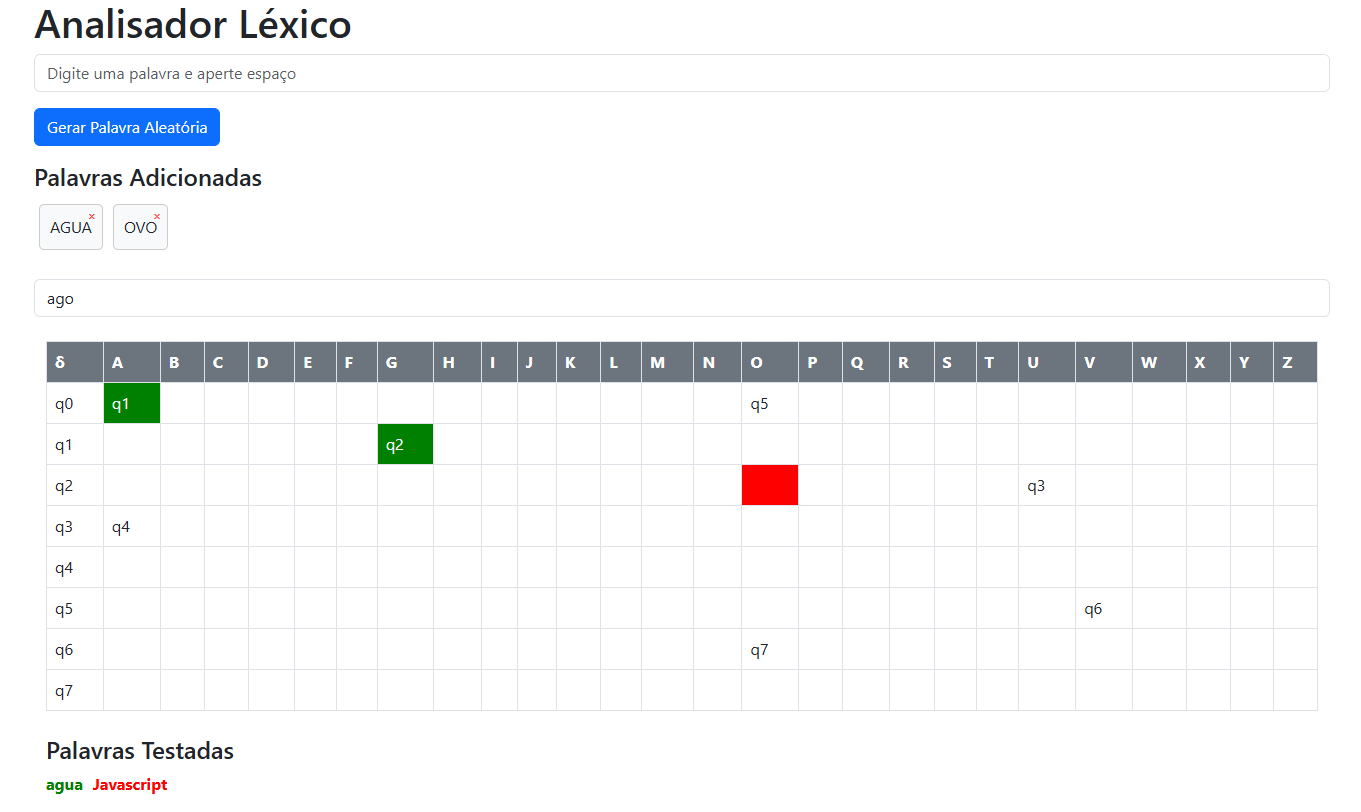
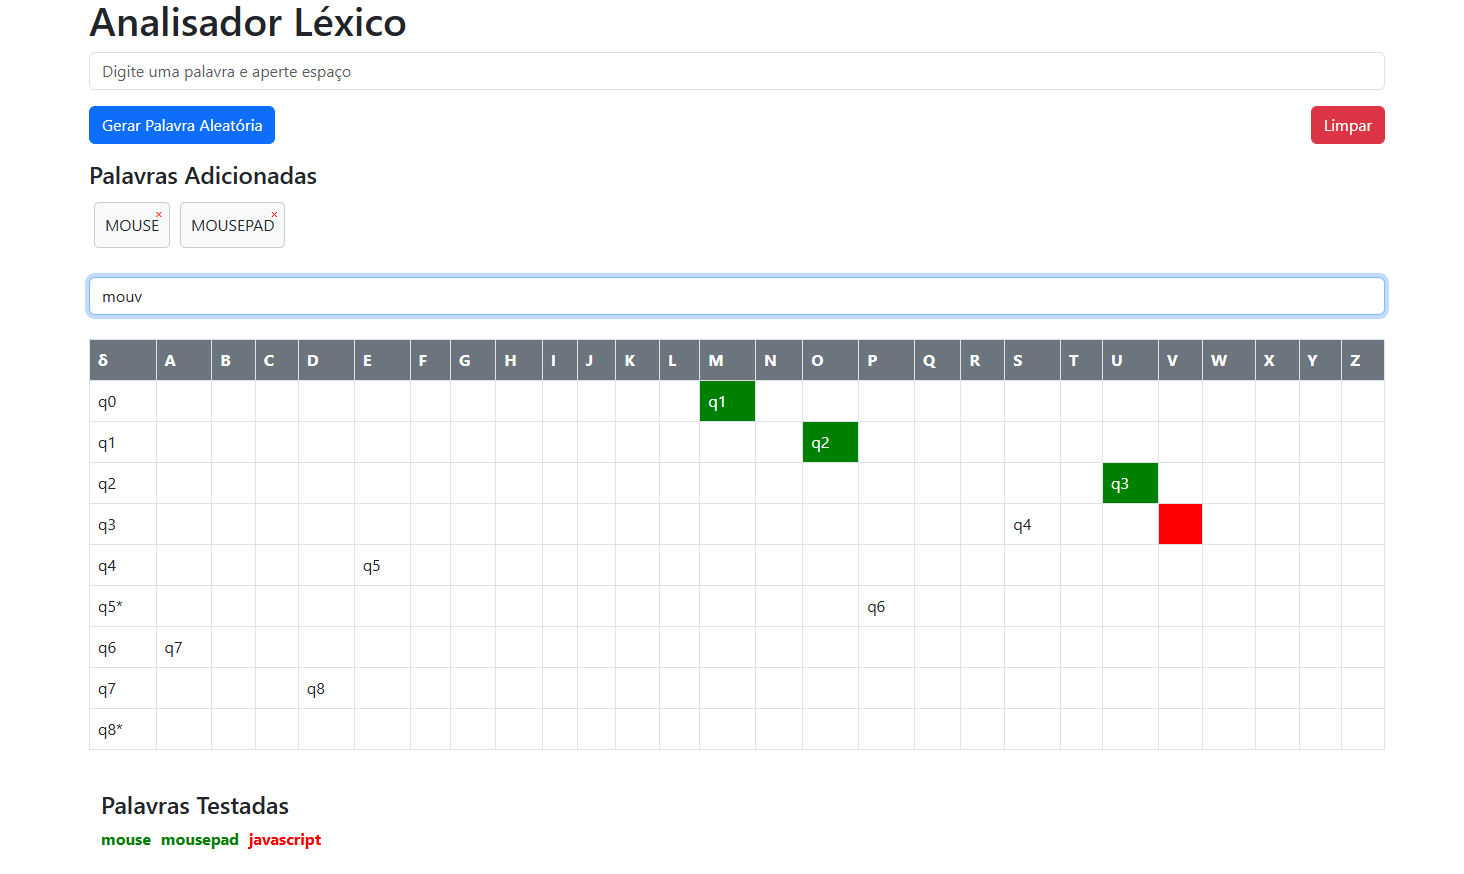
ajuste no readme

diff --git a/README.md b/README.md
@@ -40,60 +40,33 @@ O **Analisador Léxico** permite a validação de palavras em um alfabeto defini
 Observe que os estados q4, q7, q10 e q19 são estados finais.
 {
     "q0": {
-        "q1": "A",
-        "q11": "B"
+        "q1": "M"
     },
     "q1": {
-        "q2": "G"
+        "q2": "O"
     },
     "q2": {
-        "q3": "U",
-        "q8": "O"
+        "q3": "U"
     },
     "q3": {
-        "q4": "A",
-        "q5": "L"
+        "q4": "S"
     },
-    "q4": {},
+    "q4": {
+        "q5": "E"
+    },
     "q5": {
-        "q6": "H"
+        "final": "*",
+        "q6": "P"
     },
     "q6": {
         "q7": "A"
     },
-    "q7": {},
+    "q7": {
+        "q8": "D"
+    },
     "q8": {
-        "q9": "R"
-    },
-    "q9": {
-        "q10": "A"
-    },
-    "q10": {},
-    "q11": {
-        "q12": "O"
-    },
-    "q12": {
-        "q13": "R"
-    },
-    "q13": {
-        "q14": "B"
-    },
-    "q14": {
-        "q15": "O"
-    },
-    "q15": {
-        "q16": "L"
-    },
-    "q16": {
-        "q17": "E"
-    },
-    "q17": {
-        "q18": "T"
-    },
-    "q18": {
-        "q19": "A"
-    },
-    "q19": {}
+        "final": "*"
+    }
 }
 ```
 

diff --git a/README.en.md b/README.en.md
@@ -39,60 +39,33 @@ The **Lexical Analyzer** allows the validation of words in a defined alphabet by
 Note that states q4, q7, q10, and q19 are final states.
 {
     "q0": {
-        "q1": "A",
-        "q11": "B"
+        "q1": "M"
     },
     "q1": {
-        "q2": "G"
+        "q2": "O"
     },
     "q2": {
-        "q3": "U",
-        "q8": "O"
+        "q3": "U"
     },
     "q3": {
-        "q4": "A",
-        "q5": "L"
+        "q4": "S"
     },
-    "q4": {},
+    "q4": {
+        "q5": "E"
+    },
     "q5": {
-        "q6": "H"
+        "final": "*",
+        "q6": "P"
     },
     "q6": {
         "q7": "A"
     },
-    "q7": {},
+    "q7": {
+        "q8": "D"
+    },
     "q8": {
-        "q9": "R"
-    },
-    "q9": {
-        "q10": "A"
-    },
-    "q10": {},
-    "q11": {
-        "q12": "O"
-    },
-    "q12": {
-        "q13": "R"
-    },
-    "q13": {
-        "q14": "B"
-    },
-    "q14": {
-        "q15": "O"
-    },
-    "q15": {
-        "q16": "L"
-    },
-    "q16": {
-        "q17": "E"
-    },
-    "q17": {
-        "q18": "T"
-    },
-    "q18": {
-        "q19": "A"
-    },
-    "q19": {}
+        "final": "*"
+    }
 }
 ```
 
